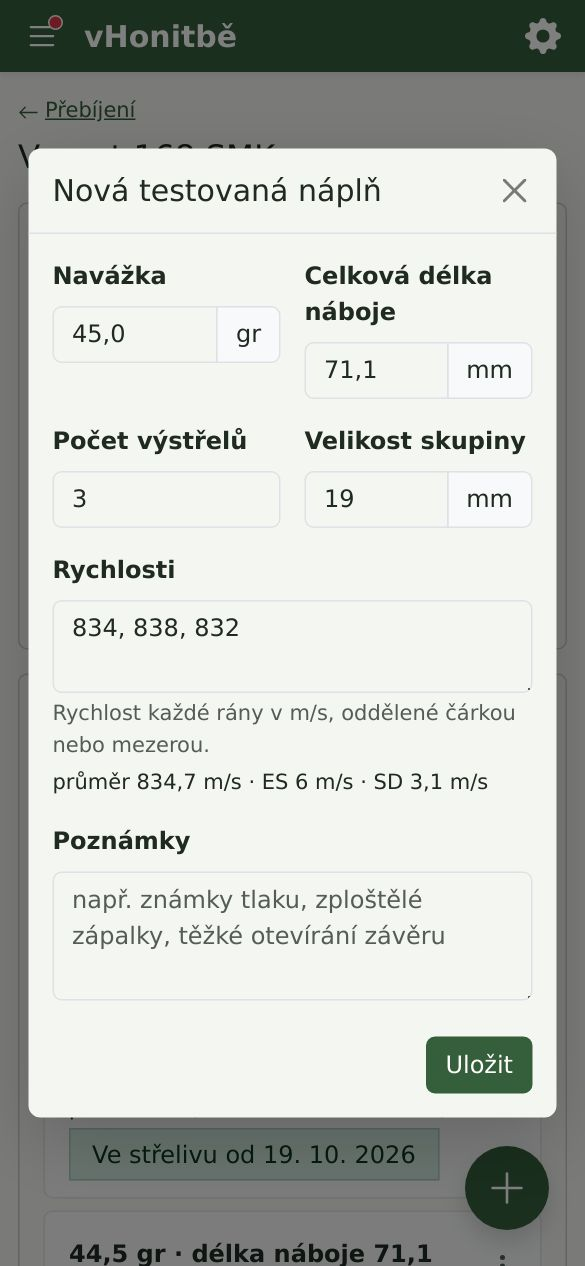
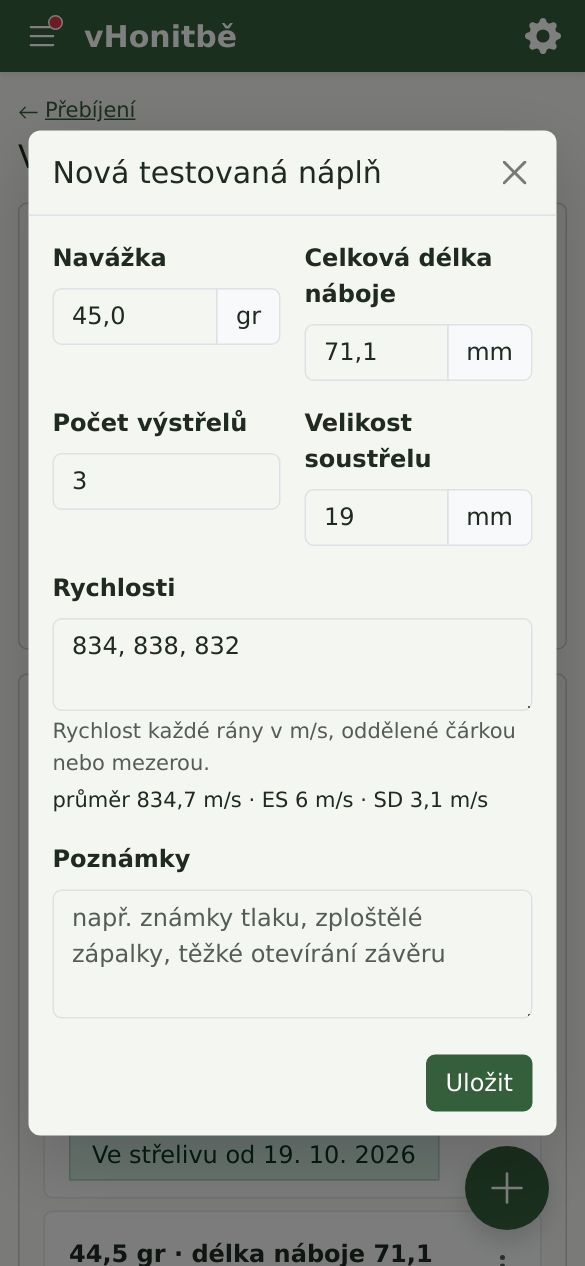
Guide update, version bump and changelog update

diff --git a/changelog.md b/changelog.md
@@ -1,5 +1,9 @@
 # Changelog
 
+## 0.54.2
+
+- The group size field of a test load is called "Velikost soustřelu" in Czech instead of "Velikost skupiny", also in the user guide and its screenshot of the form.
+
 ## 0.54.1
 
 - The user guide has a "Load development" / "Vývoj náboje" section: starting a series with its components, adding test loads with their velocities and statistics, adding the best one to the ammunition, and editing and deleting them. It has two new screenshots in each language, of a series with its test loads and of adding a test load; the screenshot of the side navigation is retaken with the new menu items.
